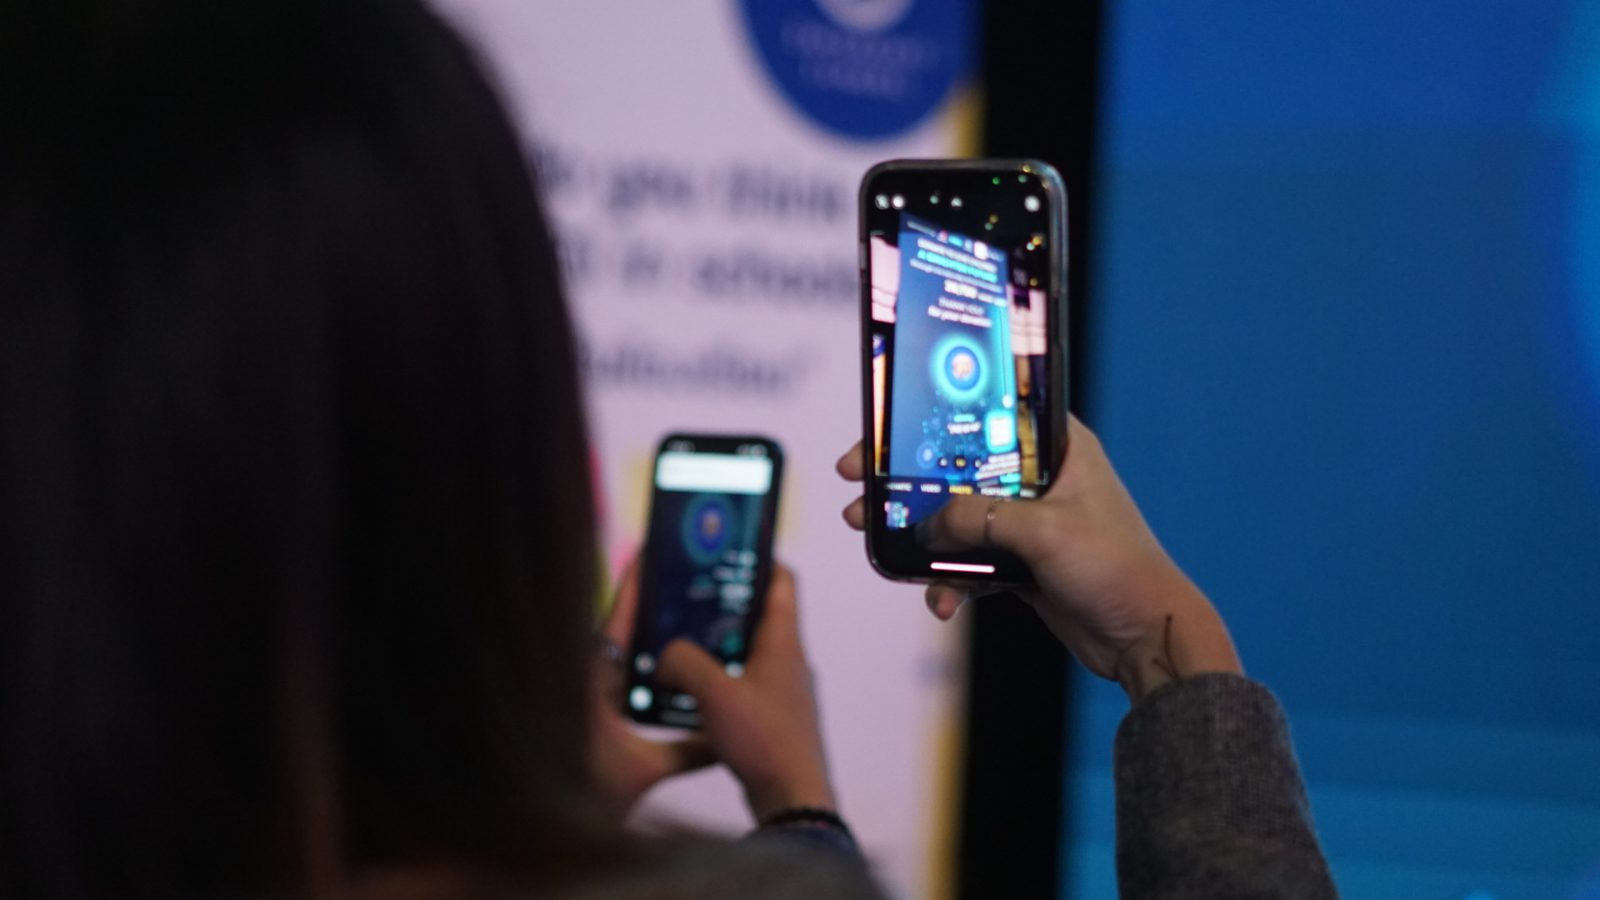
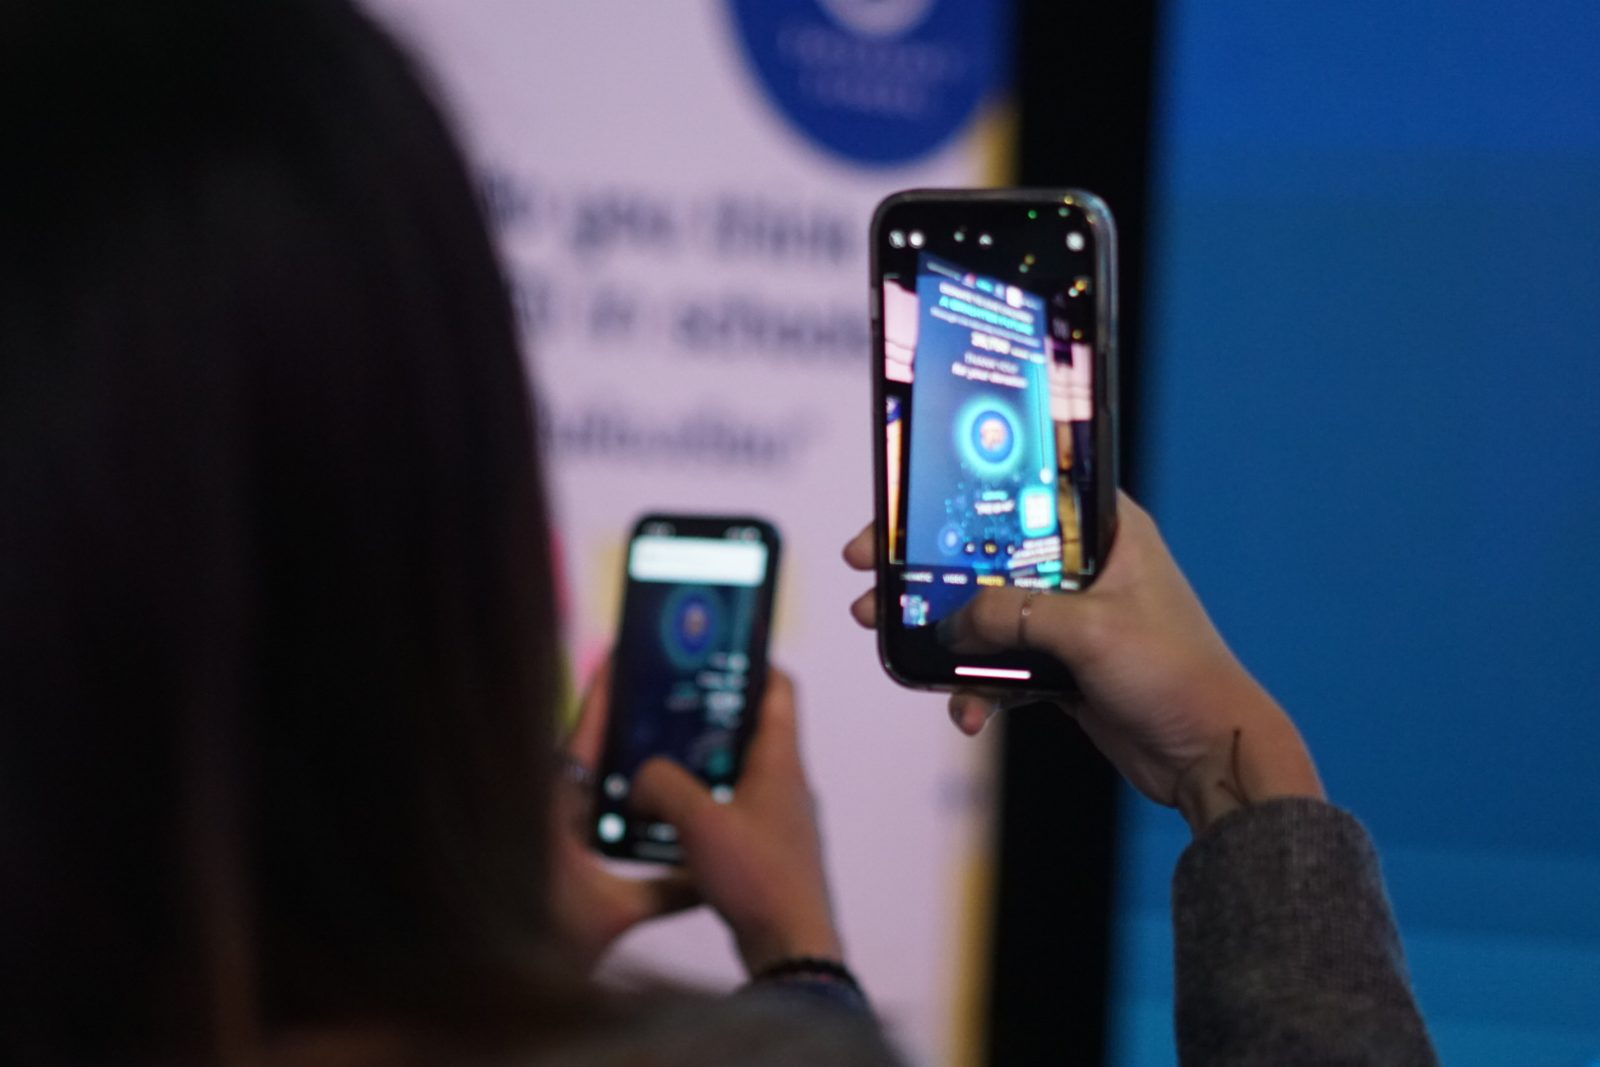
Homepage: crop the AR event photo to 3:2

diff --git a/index.html b/index.html
@@ -398,7 +398,7 @@
   // narrower windows pull side images inward so they stay on screen
   const SPREAD_X = small ? 1 : Math.min(1, Math.max(0.55, (innerWidth / innerHeight) / 1.6));
   const IMG_HD = IMG + 'v2/';
-  const ASPECT = {"growth":[1.78,1.53],"ai":[1.26],"auto":[1.58],"fintech":[1.06],"more":[1.78,1.81,1.78,1.78,1.5,1.02,1.33,1.33,1.36,1.5,1.78]};
+  const ASPECT = {"growth":[1.78,1.53],"ai":[1.26],"auto":[1.58],"fintech":[1.06],"more":[1.78,1.81,1.78,1.78,1.5,1.02,1.33,1.33,1.36,1.5,1.5]};
   // flight order: hero, the four projects, then the team (the About stop), then the moon
   const ZONES = [
     { proj:MORE,       lead:8, items:[11,5,3,10,2,1,9], step:7 },   // opening reel: wider work, right after the hero
